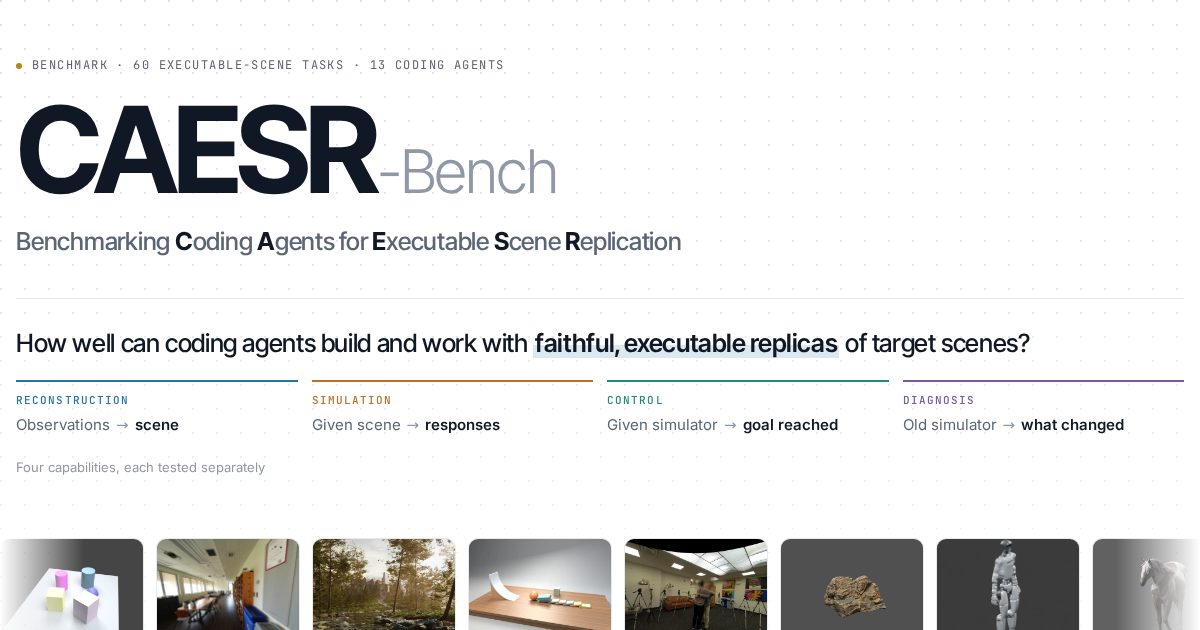
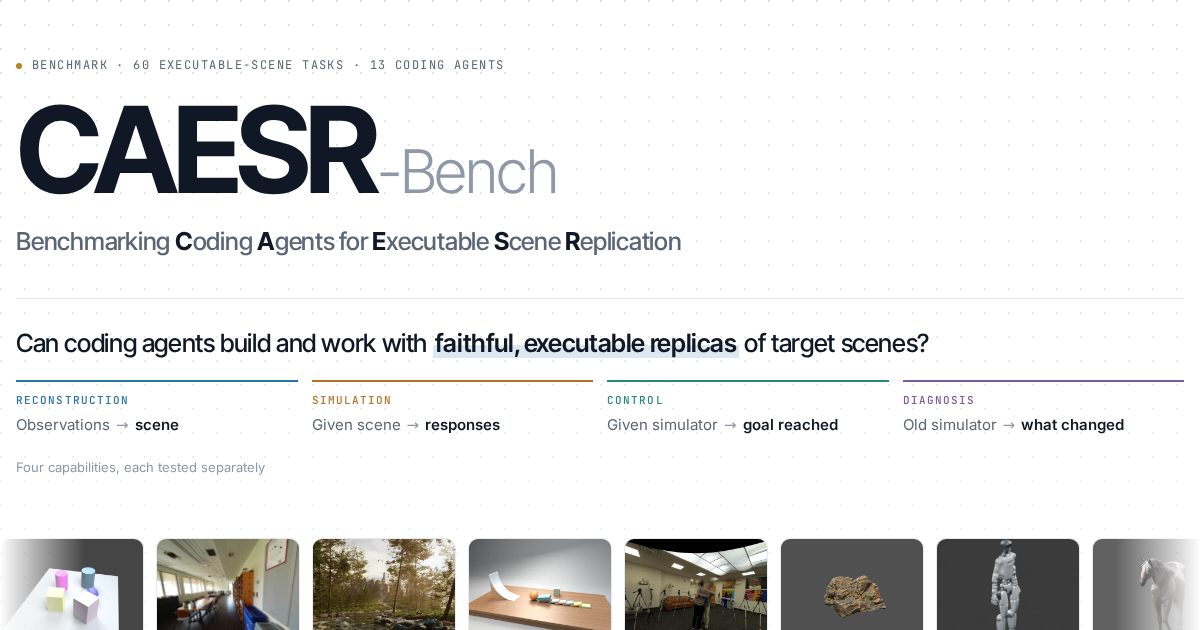
Phrase the hero question as 'Can coding agents build and work with ...'

Changed region(s): [[0.0, 0.5127, 0.8633, 0.573]]

diff --git a/index.html b/index.html
@@ -450,7 +450,7 @@ img{max-width:100%}
       <p class="affs"><span><sup>1</sup>University of Wisconsin–Madison</span><span><sup>2</sup>University of California, Santa Cruz</span><span><sup>3</sup>Luma AI</span></p>
     </div>
     <div class="qblock">
-      <p class="question">How well can coding agents build and work with <em>faithful, executable replicas</em> of target scenes?</p>
+      <p class="question">Can coding agents build and work with <em>faithful, executable replicas</em> of target scenes?</p>
       <div class="qcaps">
         <div style="--h:var(--c1)"><span>Reconstruction</span><p>Observations <i>→</i> <b>scene</b></p></div>
         <div style="--h:var(--c2)"><span>Simulation</span><p>Given scene <i>→</i> <b>responses</b></p></div>
